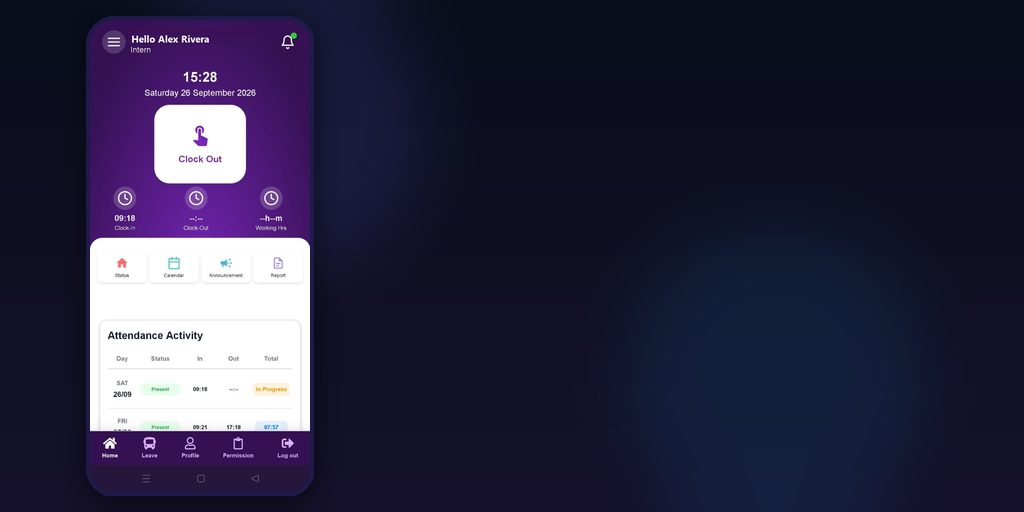
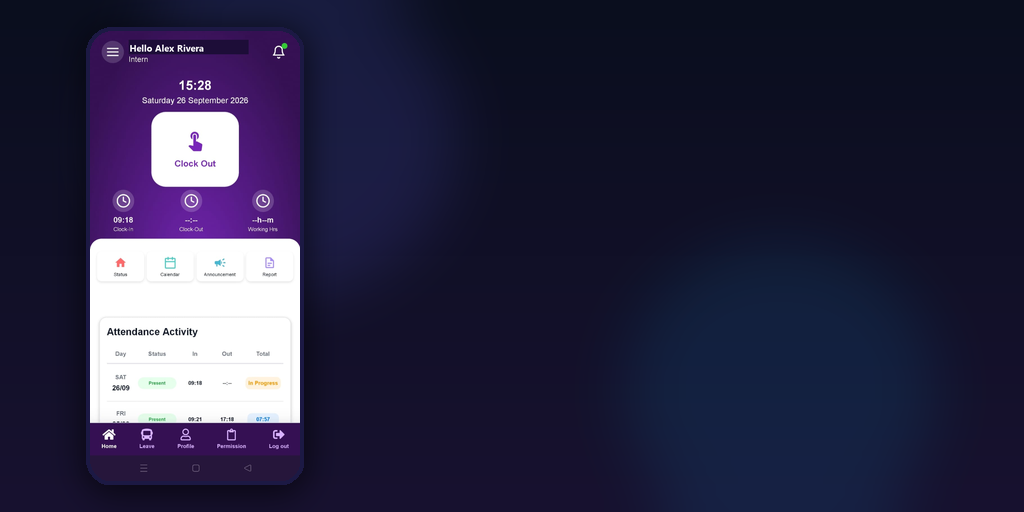
Adjust Zentime preview height and positioning to show lower section clearly

Changed region(s): [[0.0625, 0.0312, 0.3125, 0.9688], [0.0938, 0.5, 0.125, 0.5312], [0.0625, 0.9062, 0.0938, 0.9375]]

diff --git a/frontend/src/components/Portfolio.css b/frontend/src/components/Portfolio.css
@@ -729,7 +729,7 @@
 /* Uploaded Media (Picture / Video) in Portfolio */
 .project-media-container {
   width: 100%;
-  height: 280px;
+  height: 320px;
   background: #090d16;
   position: relative;
   overflow: hidden;
@@ -742,7 +742,7 @@
   width: 100%;
   height: 100%;
   object-fit: cover;
-  object-position: top center;
+  object-position: center 65%;
   transition: transform 0.4s ease;
 }
 
